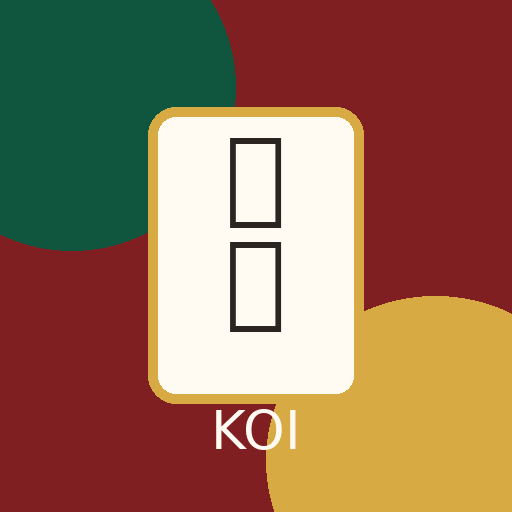
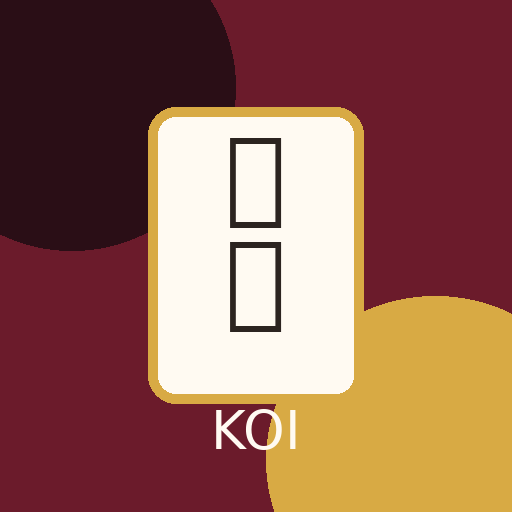
Add files via upload

Changed region(s): [[0.0, 0.0, 0.4688, 0.5]]

diff --git a/index.html b/index.html
@@ -1088,6 +1088,179 @@
       }
     }
 
+  
+    /* v15: real hanafuda images + dealer decision */
+    .cardImg{
+      position:absolute;
+      inset:0;
+      width:100%;
+      height:100%;
+      object-fit:cover;
+      object-position:center;
+      z-index:3;
+      border-radius:inherit;
+      background:#fffdf8;
+    }
+    .card .m,.card .n,.card .k{
+      position:relative;
+      z-index:2;
+    }
+    .card:has(.cardImg[style*="display: none"]) .m,
+    .card:has(.cardImg[style*="display: none"]) .n,
+    .card:has(.cardImg[style*="display: none"]) .k{
+      z-index:4;
+    }
+    .smallBack,.railBack{
+      position:relative;
+      overflow:hidden;
+    }
+    .cardBackImg{
+      position:absolute;
+      inset:0;
+      width:100%;
+      height:100%;
+      object-fit:cover;
+      object-position:center;
+      z-index:2;
+      border-radius:inherit;
+    }
+    .smallBack span,.railBack span{
+      position:relative;
+      z-index:1;
+    }
+
+    .dealerOverlay{
+      display:none;
+      position:fixed;
+      inset:0;
+      z-index:80;
+      background:rgba(0,0,0,.58);
+      backdrop-filter:blur(5px);
+      align-items:center;
+      justify-content:center;
+      padding:18px;
+    }
+    .dealerOverlay.show{
+      display:flex;
+    }
+    .dealerCard{
+      width:min(620px,100%);
+      border:3px solid rgba(216,170,68,.86);
+      border-radius:34px;
+      background:
+        radial-gradient(circle at 20% 10%,rgba(255,255,255,.16),transparent 10rem),
+        linear-gradient(135deg,#2a1512,#7f1f22 55%,#22100e);
+      color:white;
+      box-shadow:0 30px 90px rgba(0,0,0,.54);
+      padding:24px;
+      text-align:center;
+      animation:dealerPop .18s ease-out;
+    }
+    @keyframes dealerPop{from{opacity:.2;transform:translateY(10px) scale(.97)}to{opacity:1;transform:none}}
+    .dealerLabel{
+      display:inline-flex;
+      align-items:center;
+      gap:8px;
+      border-radius:999px;
+      background:rgba(216,170,68,.24);
+      border:1px solid rgba(216,170,68,.62);
+      padding:8px 12px;
+      color:#fff2b9;
+      font-size:13px;
+      font-weight:950;
+      letter-spacing:.08em;
+    }
+    .dealerTitle{
+      margin:14px 0 8px;
+      font-family:"Hiragino Mincho ProN","Yu Mincho",serif;
+      font-size:clamp(34px,7vw,58px);
+      line-height:1.05;
+      font-weight:950;
+      color:#fff2b9;
+      text-shadow:0 4px 0 rgba(0,0,0,.25);
+    }
+    .dealerText{
+      margin:0 auto 16px;
+      max-width:440px;
+      color:rgba(255,255,255,.88);
+      line-height:1.8;
+      font-size:14px;
+      font-weight:800;
+    }
+    .dealerResult{
+      margin:14px auto;
+      display:grid;
+      grid-template-columns:1fr auto 1fr;
+      gap:12px;
+      align-items:center;
+      max-width:460px;
+    }
+    .dealerSide{
+      border:1px solid rgba(255,255,255,.16);
+      background:rgba(255,255,255,.10);
+      border-radius:20px;
+      padding:12px;
+      min-height:86px;
+      display:grid;
+      place-items:center;
+      gap:5px;
+      font-weight:950;
+    }
+    .dealerSide.active{
+      border-color:rgba(255,230,116,.92);
+      background:linear-gradient(135deg,rgba(207,70,72,.7),rgba(216,170,68,.28));
+      box-shadow:0 0 24px rgba(255,230,116,.24);
+    }
+    .dealerVs{
+      color:#fff2b9;
+      font-weight:950;
+      font-size:20px;
+    }
+    .dealerStartBtn{
+      border:0;
+      border-radius:999px;
+      padding:14px 22px;
+      margin-top:6px;
+      background:linear-gradient(135deg,#cf4648,#f07b5f);
+      color:white;
+      font-weight:950;
+      cursor:pointer;
+      box-shadow:0 12px 30px rgba(0,0,0,.24);
+    }
+    .dealerStartBtn:hover{
+      filter:brightness(1.08);
+      transform:translateY(-1px);
+    }
+    @media(max-width:480px){
+      .dealerCard{padding:18px;border-radius:26px}
+      .dealerResult{grid-template-columns:1fr;gap:8px}
+      .dealerVs{font-size:14px}
+    }
+
+  
+    /* v16: burgundy plain card backs, no back image needed */
+    .smallBack,.railBack{
+      background:
+        radial-gradient(circle at 50% 28%, rgba(255,255,255,.08), transparent 1.35rem),
+        linear-gradient(135deg,#2a0e16,#6b1b2b 52%,#3a101b);
+      border-color:rgba(255,219,177,.28);
+      color:#f7dfc8;
+      box-shadow:0 5px 10px rgba(0,0,0,.24), inset 0 0 0 1px rgba(255,255,255,.08);
+    }
+    .smallBack::after,.railBack::after{
+      content:"";
+      position:absolute;
+      inset:5px;
+      border:1px solid rgba(255,230,200,.25);
+      border-radius:inherit;
+      pointer-events:none;
+    }
+    .smallBack span,.railBack span{
+      color:#f7dfc8;
+      text-shadow:0 2px 4px rgba(0,0,0,.45);
+      z-index:3;
+    }
+
   </style>
 </head>
 <body>
@@ -1266,6 +1439,20 @@
     </div>
   </section>
 
+  <div class="dealerOverlay" id="dealerOverlay">
+    <div class="dealerCard">
+      <div class="dealerLabel">🎴 親決め</div>
+      <div class="dealerTitle" id="dealerTitle">親を決めます</div>
+      <p class="dealerText" id="dealerText">この局の先手を決めます。親になった方から札を出します。</p>
+      <div class="dealerResult">
+        <div class="dealerSide" id="dealerPlayerSide"><span>あなた</span><strong id="dealerPlayerMark">---</strong></div>
+        <div class="dealerVs">VS</div>
+        <div class="dealerSide" id="dealerCpuSide"><span id="dealerCpuName">相手</span><strong id="dealerCpuMark">---</strong></div>
+      </div>
+      <button class="dealerStartBtn" id="dealerStartBtn">この局を始める</button>
+    </div>
+  </div>
+
   <div class="cutin" id="cutin">
     <div class="cutinCard">
       <div class="cutinPortrait" id="cutinPortrait"></div>
@@ -1378,6 +1565,13 @@ const DEF=[
 [12,"桐に鳳凰","光",["bright","phoenix"]],[12,"桐のカス","カス",["chaff"]],[12,"桐のカス","カス",["chaff"]],[12,"桐のカス","カス",["chaff"]]
 ];
 const BASE_DECK=DEF.map((d,i)=>({id:"c"+i,month:d[0],name:d[1],kind:d[2],tags:d[3],point:d[3].includes("bright")?20:d[3].includes("animal")?10:d[3].includes("ribbon")?5:1}));
+function cardImageSrc(card){
+  const n=String(Number(card.id.replace("c",""))+1).padStart(2,"0");
+  return `images/cards/card_${n}.png`;
+}
+function cardBackImageTag(){
+  return "";
+}
 let selectedOpponent="akane";
 let G=null;
 function $(id){return document.getElementById(id)}
@@ -1404,8 +1598,10 @@ function calc(cards){
 }
 function newRound(key=selectedOpponent, totals=G?.totals||{player:0,cpu:0}, round=(G?.round||0)+1){
   const d=shuffle(BASE_DECK);
-  G={opponentKey:key,round,totals,deck:d.slice(24),playerHand:sortCards(d.slice(0,8)),cpuHand:sortCards(d.slice(8,16)),field:sortCards(d.slice(16,24)),playerCap:[],cpuCap:[],turn:"player",phase:"hand",selected:null,msg:`${OPPONENTS[key].name}と対局開始。下の手札から1枚選んでください。`,playerDeclared:0,cpuDeclared:0,playerKoi:0,cpuKoi:0,talk:pickTalk(key,"start")};
+  const dealer=Math.random()<0.5?"player":"cpu";
+  G={opponentKey:key,round,totals,deck:d.slice(24),playerHand:sortCards(d.slice(0,8)),cpuHand:sortCards(d.slice(8,16)),field:sortCards(d.slice(16,24)),playerCap:[],cpuCap:[],dealer,turn:null,phase:"preRound",selected:null,msg:`親決め：${dealer==="player"?"あなた":OPPONENTS[key].name}が親です。`,playerDeclared:0,cpuDeclared:0,playerKoi:0,cpuKoi:0,talk:pickTalk(key,"start")};
   render();
+  setTimeout(showDealerOverlay,80);
 }
 function startBattle(key=selectedOpponent){selectedOpponent=key;newRound(key,{player:0,cpu:0},1);show("battleView");}
 function clone(o){return JSON.parse(JSON.stringify(o))}
@@ -1497,7 +1693,15 @@ function runCpu(){
   G.phase="hand";G.turn="player";G.msg+=" あなたの手番です。";render();
 }
 function cardClass(c){return tag(c,"bright")?"bright":tag(c,"animal")?"animal":tag(c,"ribbon")?"ribbon":"chaff"}
-function cardHtml(c,mini=false,extra=""){return `<button class="card ${mini?"miniCard":""} ${cardClass(c)} ${extra}" data-card="${c.id}"><span class="m">${c.month}月 ${MONTHS[c.month-1]}</span><span class="n">${c.name}</span><span class="k">${c.kind}</span></button>`}
+function cardHtml(c,mini=false,extra=""){
+  const src=cardImageSrc(c);
+  return `<button class="card ${mini?"miniCard":""} ${cardClass(c)} ${extra}" data-card="${c.id}">
+    <img class="cardImg" src="${src}" alt="${c.name}" onerror="this.style.display='none'">
+    <span class="m">${c.month}月 ${MONTHS[c.month-1]}</span>
+    <span class="n">${c.name}</span>
+    <span class="k">${c.kind}</span>
+  </button>`;
+}
 function portraitHtml(op,small=false){
   const fallback=`<div class="portraitInner"><div class="faceIcon">${op.icon}</div><div class="imageNote">画像未設定</div></div>`;
   const src=IMAGE_PATHS[op.key]?.normal;
@@ -1563,7 +1767,7 @@ function renderOpponentRail(){
   const moved = G.lastMove && G.lastMove.owner==="cpu";
   $("opponentHandRail").innerHTML=G.cpuHand.map((_,idx)=>{
     const cls = moved && idx===0 ? "railBack justMoved" : "railBack";
-    return `<div class="${cls}">花</div>`;
+    return `<div class="${cls}">${cardBackImageTag()}<span>花</span></div>`;
   }).join("");
   const slot=$("opponentPlayedCard");
   if(G.lastMove && G.lastMove.owner==="cpu" && G.lastMove.hand){
@@ -1574,7 +1778,7 @@ function renderOpponentRail(){
 }
 
 function renderCards(){
-  $("cpuHand").innerHTML=G.cpuHand.map(()=>`<div class="smallBack">花</div>`).join("");
+  $("cpuHand").innerHTML=G.cpuHand.map(()=>`<div class="smallBack">${cardBackImageTag()}<span>花</span></div>`).join("");
   $("field").innerHTML=G.field.map(c=>{
     const match=G.phase==="field"&&G.selected&&c.month===G.selected.month;
     return cardHtml(c,false,match?"matchable":"");
@@ -1663,8 +1867,42 @@ function showCutin(kind,word,line="",sub="",key=null,state="normal"){
   clearTimeout(cutinTimer);
   cutinTimer=setTimeout(()=>{ el.className="cutin"; }, kind==="win"||kind==="lose" ? 1700 : 1250);
 }
+
+function showDealerOverlay(){
+  if(!$("dealerOverlay") || !G) return;
+  const op=OPPONENTS[G.opponentKey];
+  $("dealerCpuName").textContent=op.name;
+  $("dealerPlayerMark").textContent=G.dealer==="player"?"親":"子";
+  $("dealerCpuMark").textContent=G.dealer==="cpu"?"親":"子";
+  $("dealerPlayerSide").classList.toggle("active",G.dealer==="player");
+  $("dealerCpuSide").classList.toggle("active",G.dealer==="cpu");
+  $("dealerTitle").textContent=G.dealer==="player"?"あなたが親です":`${op.name}が親です`;
+  $("dealerText").textContent=G.dealer==="player"?"あなたから札を出します。準備ができたら始めてください。":`${op.name}から札を出します。準備ができたら始めてください。`;
+  $("dealerOverlay").classList.add("show");
+}
+function hideDealerOverlay(){
+  if($("dealerOverlay")) $("dealerOverlay").classList.remove("show");
+}
+function startRoundAfterDealer(){
+  if(!G || G.phase!=="preRound") return;
+  hideDealerOverlay();
+  if(G.dealer==="player"){
+    G.phase="hand";
+    G.turn="player";
+    G.msg="あなたが親です。下の手札から1枚選んでください。";
+    render();
+  }else{
+    G.phase="cpu";
+    G.turn="cpu";
+    G.msg=`${OPPONENTS[G.opponentKey].name}が親です。相手の手番から始まります。`;
+    render();
+    setTimeout(runCpu,820);
+  }
+}
+
 function phaseNotice(){
   if(!G) return "札を選んでください";
+  if(G.phase==="preRound") return "親を決めています";
   if(G.phase==="hand") return "札を選んでください";
   if(G.phase==="field") return "場札を選んでください";
   if(G.phase==="decision") return "勝負する？ こいこいする？";
@@ -1674,7 +1912,7 @@ function phaseNotice(){
 }
 function phaseLabel(){
   if(!G) return "準備";
-  return ({hand:"札選択",field:"場札選択",decision:"役成立",cpu:"相手手番",end:"局終了"}[G.phase]||"進行中");
+  return ({preRound:"親決め",hand:"札選択",field:"場札選択",decision:"役成立",cpu:"相手手番",end:"局終了"}[G.phase]||"進行中");
 }
 
 function init(){
@@ -1697,6 +1935,7 @@ function init(){
     window.addEventListener("load",()=>navigator.serviceWorker.register("./sw.js").catch(()=>{}));
   }
 
+  $("dealerStartBtn").onclick=()=>startRoundAfterDealer();
   $("goSelect1").onclick=()=>show("selectView");
   $("quickStart").onclick=()=>startBattle("akane");
   $("backTop1").onclick=()=>show("topView");

diff --git a/sw.js b/sw.js
@@ -1,4 +1,4 @@
-const CACHE_NAME = "uchinoko-koikoi-v14";
+const CACHE_NAME = "uchinoko-koikoi-v16";
 const ASSETS = ["./","./index.html","./manifest.webmanifest","./icons/icon-192.png","./icons/icon-512.png"];
 self.addEventListener("install", event => { event.waitUntil(caches.open(CACHE_NAME).then(cache => cache.addAll(ASSETS))); self.skipWaiting(); });
 self.addEventListener("activate", event => { event.waitUntil(caches.keys().then(keys => Promise.all(keys.filter(key => key !== CACHE_NAME).map(key => caches.delete(key))))); self.clients.claim(); });

diff --git a/README.md b/README.md
@@ -1,7 +1,12 @@
-# うちの子こいこい PWA版 v14
+# うちの子こいこい PWA版 v16
 
 ## 更新内容
-- 場札の上に相手の裏向き手札列を追加
-- 相手の手札枚数が見えるように変更
-- 相手が出した札を「直前に出した札」として表示
-- 相手が動いた時に裏札列と直前札がアニメーションします
+- 花札の裏面画像 `card_back.png` を不要にしました
+- 裏札はCSSでバーガンディ系の無地デザインに固定
+- 表面の花札画像だけ `images/cards/card_01.png` 〜 `card_48.png` で差し替えできます
+- 画像がない札は仮テキスト札で表示されます
+
+## 画像フォルダ
+- キャラ画像：`images/`
+- 花札表面画像：`images/cards/`
+- 裏面画像：不要
